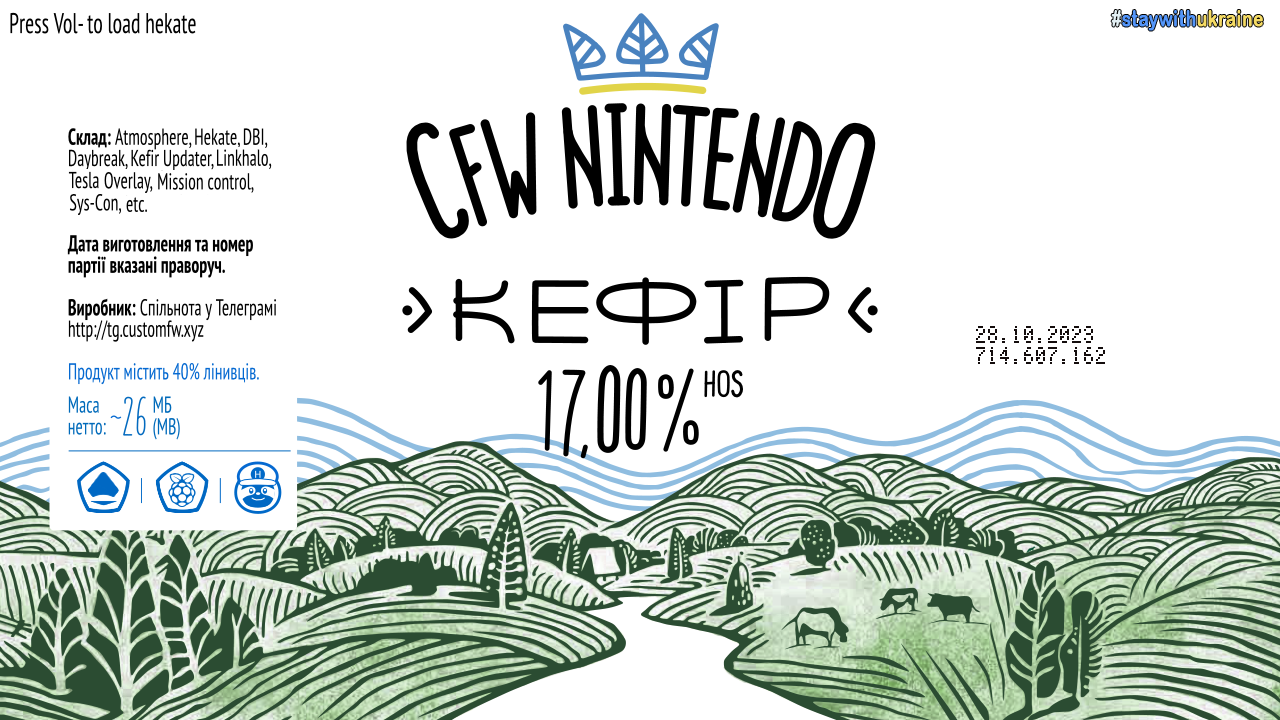
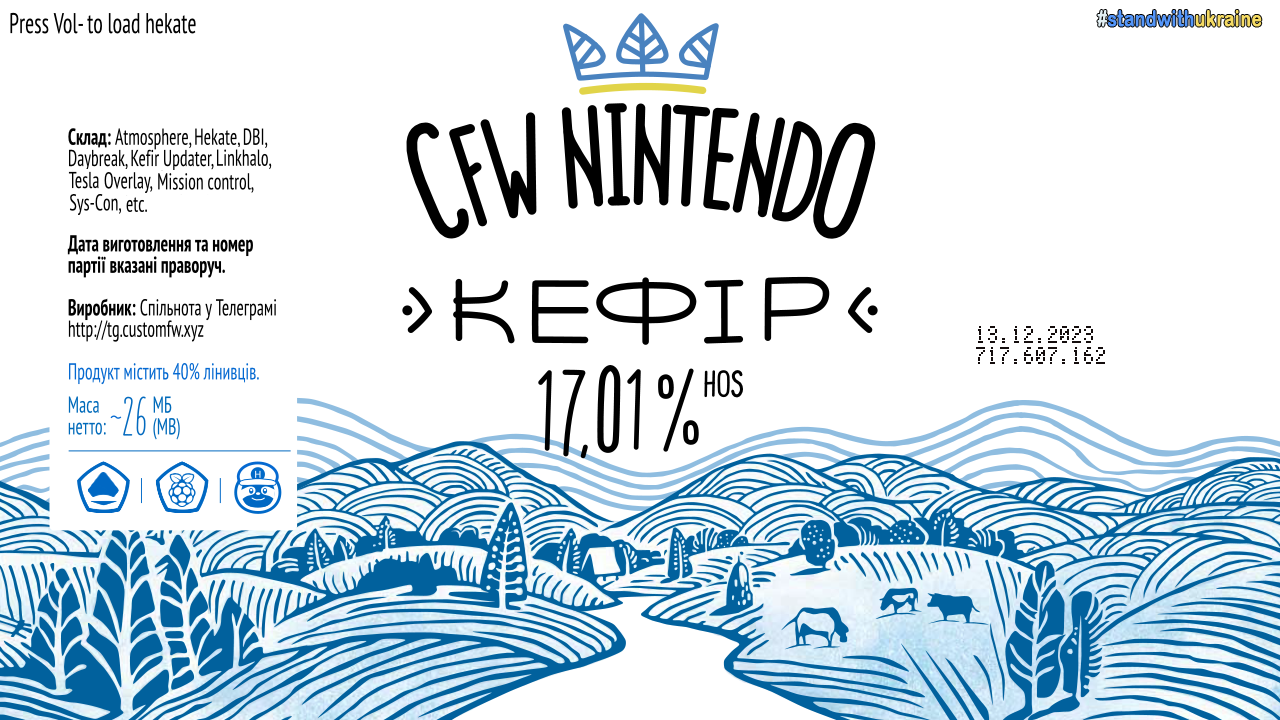
kefir717

Changed region(s): [[0.0, 0.6111, 1.0, 1.0], [0.8438, 0.0, 1.0, 0.0611], [0.4688, 0.5194, 0.5312, 0.6417]]

diff --git a/kefir.html b/kefir.html
@@ -329,7 +329,7 @@
 <nav class="toc">
     <header><h4 class="nav__title"><i class="fa fa-file-text"></i> Разделы</h4></header>
 <ul class="toc__menu" id="markdown-toc">
-  <li><a href="#kefir-714" id="markdown-toc-kefir-714">KEFIR 714</a>    <ul>
+  <li><a href="#kefir-717" id="markdown-toc-kefir-717">KEFIR 717</a>    <ul>
       <li><a href="#что-такое-кефир" id="markdown-toc-что-такое-кефир">Что такое кефир</a></li>
       <li><a href="#инструкция-по-установкеобновлению-kefir" id="markdown-toc-инструкция-по-установкеобновлению-kefir">Инструкция по установке/обновлению kefir</a></li>
     </ul>
@@ -366,7 +366,7 @@
 
 <hr />
 
-<h2 id="kefir-714"><a href="https://codeberg.org/rashevskyv/kefir/releases" target="_blank">KEFIR 714</a></h2>
+<h2 id="kefir-717"><a href="https://codeberg.org/rashevskyv/kefir/releases" target="_blank">KEFIR 717</a></h2>
 
 <p class="text-center"><img src="/images/kefir.png" alt="kefir" width="70%" /></p>
 
@@ -608,49 +608,70 @@
 <h3 id="изменения-от-прошлой-версии">Изменения от прошлой версии</h3>
 
 <h4 id="ukr"><strong>UKR</strong>:</h4>
-<p><strong>Повна підтримка 17.0.0</strong></p>
+<p><strong>Повна підтримка 17.0.1</strong></p>
 
-<p><strong>714:</strong></p>
+<p><strong>717:</strong></p>
 <ul>
-  <li>[<strong>Оновлено</strong>] <a href="https://github.com/rashevskyv/Kefirosphere">Atmosphere 1.6.2</a> - Повна підтримка 17.0.0
+  <li>[<strong>Оновлено</strong>] <a href="https://github.com/rashevskyv/Kefirosphere">Atmosphere 1.6.2</a> - перезібрано з останнім коммітом
     <ul>
       <li><a href="https://github.com/Atmosphere-NX/Atmosphere/releases"><strong>Детальніше про зміни в Atmosphere</strong></a></li>
     </ul>
   </li>
-  <li>[<strong>Оновлено</strong>] <a href="https://github.com/switchbrew/nx-hbmenue">hbmenu 3.6.0</a> - підтримка 17.0.0, кнопки ZL/ZL працюють аналогічно DPAD UP/DOWN, виправлено відображення WiFi</li>
-  <li>[<strong>Оновлено</strong>] <a href="https://github.com/switchbrew/nx-hbloader">hbloader 2.4.4</a> - перезібрано з актуальним libnx</li>
+  <li>[<strong>Додано</strong>] <a href="https://github.com/efosamark/Uberhand-Overlay">Uberhand</a> - замість ванільного лоадера Tesla Menu, що дозволило використовувати корисні скріпти:
+    <ul>
+      <li><strong>DBI</strong> - заміна мови та оновлення програми на літу</li>
+      <li><strong>Translate Interface</strong> - додаткові мови інтерфейсу на вибір</li>
+      <li><strong>Semi-stock</strong> - загрузка в семісток из меню</li>
+      <li><strong>Reboot та Shutdown</strong> - перезагрузка та виключення консолі із меню</li>
+    </ul>
+  </li>
+  <li>[<strong>Оновлено</strong>] <a href="https://github.com/rashevskyv/dbi/releases">DBI 653</a> - виправлені баги, поліпшано Activity Log</li>
 </ul>
 
 <hr />
 
 <h4 id="rus"><strong>RUS</strong>:</h4>
-<p><strong>Полная поддержка 17.0.0</strong></p>
+<p><strong>Полная поддержка 17.0.1</strong></p>
 
-<p><strong>714:</strong></p>
+<p><strong>717:</strong></p>
 <ul>
-  <li>[<strong>Обновлено</strong>] <a href="https://github.com/rashevskyv/Kefirosphere">Atmosphere 1.6.2</a> - Полная поддержка 17.0.0
+  <li>[<strong>Обновлено</strong>] <a href="https://github.com/rashevskyv/Kefirosphere">Atmosphere 1.6.2</a> - перезібрано з останнім коммітом
     <ul>
-      <li><a href="https://github.com/Atmosphere-NX/Atmosphere/releases"><strong>Подробнее о изменениях в Atmosphere</strong></a></li>
+      <li><a href="https://github.com/Atmosphere-NX/Atmosphere/releases"><strong>Детальніше про зміни в Atmosphere</strong></a></li>
     </ul>
   </li>
-  <li>[<strong>Обновлено</strong>] <a href="https://github.com/switchbrew/nx-hbmenue">hbmenu 3.6.0</a> - поддержка 17.0.0, кнопки ZL/ZL работают аналогично DPAD UP/DOWN, исправлено отображение WiFi</li>
-  <li>[<strong>Обновлено</strong>] <a href="https://github.com/switchbrew/nx-hbloader">hbloader 2.4.4</a> - пересобрано с актуальным libnx</li>
+  <li>[<strong>Добавлено</strong>] <a href="https://github.com/efosamark/Uberhand-Overlay">Uberhand</a> - вместо ванильного загрузчика Tesla Menu, что позволило использовать скрипты:
+    <ul>
+      <li><strong>DBI</strong> - изменение локализации и обновление программы</li>
+      <li><strong>Translate Interface</strong> - дополнительные переводы инитерфейса на выбор</li>
+      <li><strong>Semi-stock</strong> - загрузка в семисток из меню</li>
+      <li><strong>Reboot та Shutdown</strong> - перезагрузка и виключение консоли из меню</li>
+    </ul>
+  </li>
+  <li>[<strong>Обновлено</strong>] <a href="https://github.com/rashevskyv/dbi/releases">DBI 653</a> - исправление багов, улучшения Activity Log</li>
 </ul>
 
 <hr />
 
 <h4 id="eng"><strong>ENG</strong>:</h4>
-<p><strong>Full support 17.0.0</strong></p>
+<p><strong>Full support 17.0.1</strong></p>
 
-<p><strong>714:</strong></p>
+<p><strong>717</strong>:</p>
 <ul>
-  <li>[<strong>Updated</strong>] <a href="https://github.com/rashevskyv/Kefirosphere">Atmosphere 1.6.2</a> - Full support for 17.0.0
+  <li>[<strong>Updated</strong>] <a href="https://github.com/rashevskyv/Kefirosphere">Atmosphere 1.6.2</a> - rebuilt with the latest commit
     <ul>
-      <li><a href="https://github.com/Atmosphere-NX/Atmosphere/releases"><strong>More details about changes in Atmosphere</strong></a></li>
+      <li><a href="https://github.com/Atmosphere-NX/Atmosphere/releases"><strong>More about changes in Atmosphere</strong></a></li>
     </ul>
   </li>
-  <li>[<strong>Updated</strong>] <a href="https://github.com/switchbrew/nx-hbmenue">hbmenu 3.6.0</a> - support for 17.0.0, ZL/ZL buttons function like DPAD UP/DOWN, fixed WiFi display</li>
-  <li>[<strong>Updated</strong>] <a href="https://github.com/switchbrew/nx-hbloader">hbloader 2.4.4</a> - recompiled with current libnx</li>
+  <li>[<strong>Added</strong>] <a href="https://github.com/efosamark/Uberhand-Overlay">Uberhand</a> - instead of the vanilla Tesla Menu loader, which allowed the use of useful scripts:
+    <ul>
+      <li><strong>DBI</strong> - language replacement and program update on the fly</li>
+      <li><strong>Translate Interface</strong> - additional interface languages to choose from</li>
+      <li><strong>Semi-stock</strong> - loading into semi-stock from the menu</li>
+      <li><strong>Reboot and Shutdown</strong> - rebooting and shutting down the console from the menu</li>
+    </ul>
+  </li>
+  <li>[<strong>Updated</strong>] <a href="https://github.com/rashevskyv/dbi/releases">DBI 653</a> - fixed bugs, improved Activity Log</li>
 </ul>
 
 <hr />

diff --git a/troubleshooting.html b/troubleshooting.html
@@ -370,7 +370,7 @@
      Кастомный бутлоадер для Nintendo Switch. С его помощью мы делаем резервное копирование, запускаем кастом, запускаем различные пейлоады. Один из самых важных инструментов из тех, что мы будем использовать.
  </span>
  </span>
-</span> -&gt; <strong>Payloads</strong> -&gt; <code class="language-plaintext highlighter-rouge">kefir-helper.bin</code></li>
+</span> -&gt; <strong>Payloads</strong> -&gt; <code class="language-plaintext highlighter-rouge">TegraExplorer</code> -&gt; <code class="language-plaintext highlighter-rouge">kefir-helper.te</code></li>
       <li>Если после этого приставка заработала, ищите проблему в установленных модулях</li>
     </ol>
   </li>
@@ -456,7 +456,7 @@
      Кастомный бутлоадер для Nintendo Switch. С его помощью мы делаем резервное копирование, запускаем кастом, запускаем различные пейлоады. Один из самых важных инструментов из тех, что мы будем использовать.
  </span>
  </span>
-</span> -&gt; <strong>Payloads</strong> -&gt; <code class="language-plaintext highlighter-rouge">kefir-helper.bin</code></li>
+</span> -&gt; <strong>Payloads</strong> -&gt; <code class="language-plaintext highlighter-rouge">TegraExplorer</code> -&gt; <code class="language-plaintext highlighter-rouge">kefir-helper.te</code></li>
       <li>Если после этого приставка заработала, ищите проблему в установленных модулях</li>
     </ol>
   </li>
